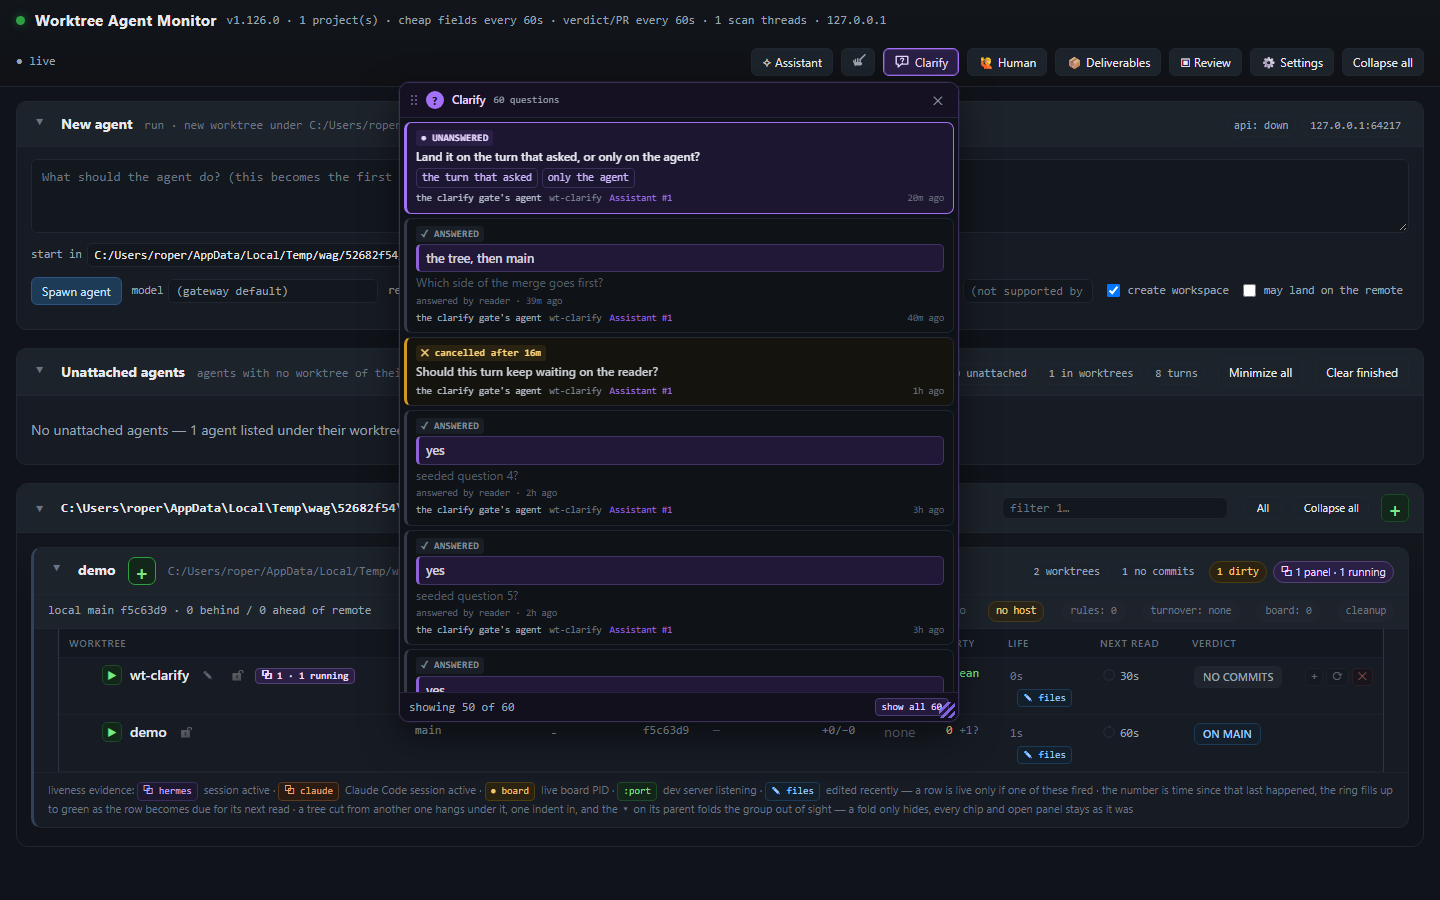
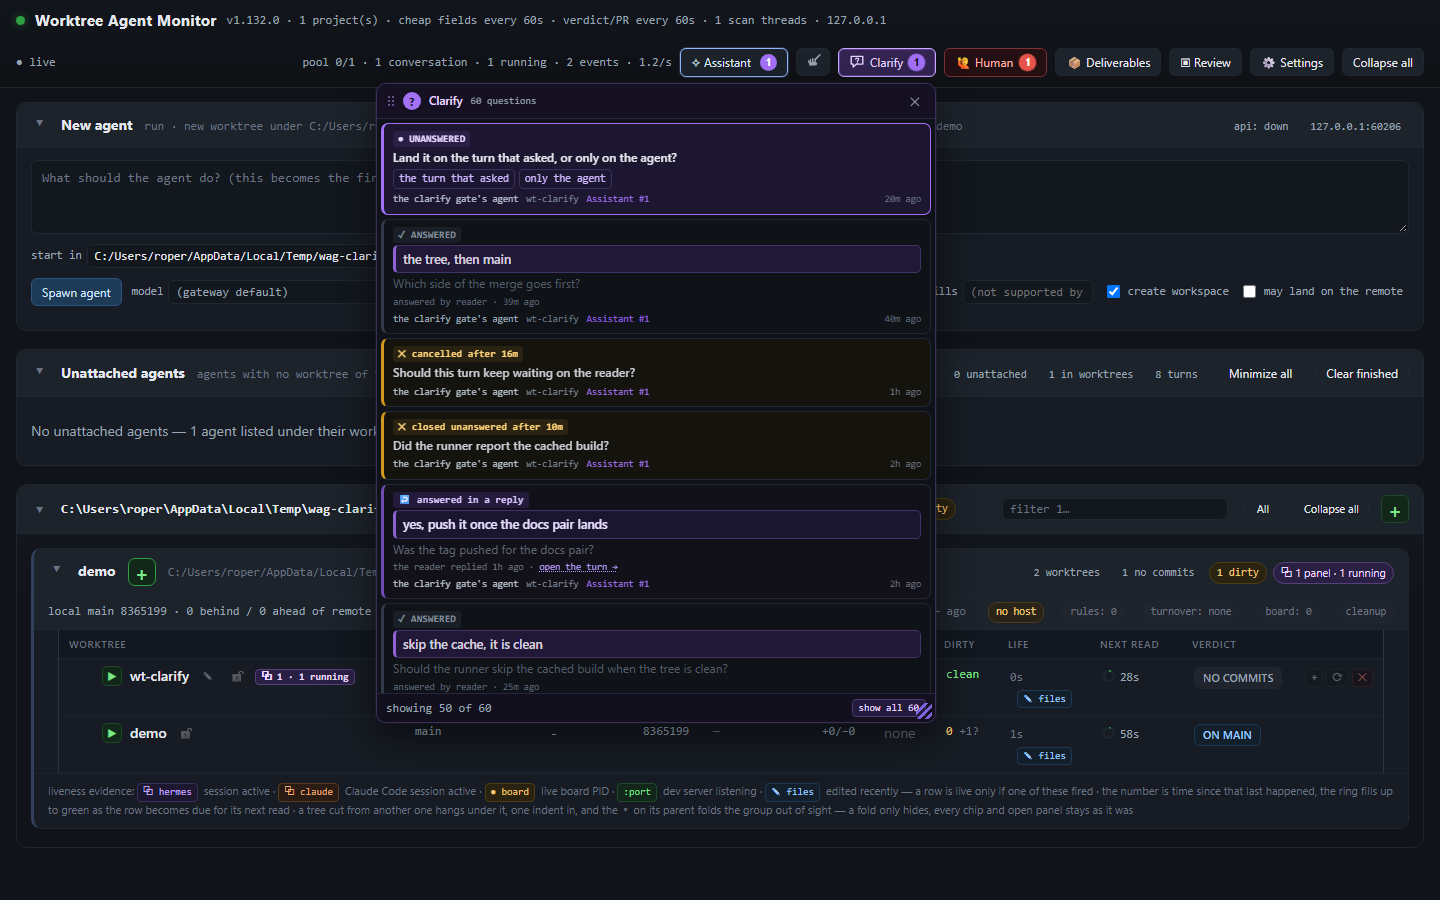
test(clarify): prove the collapse, the reply and the button count headless at 1440x900
The gate grows the row's own cases in the fixture: one question asked, closed
and asked again (which must be ONE answered row with both attempts behind a
fold), a question the reader answered in the reply box after its card closed
unanswered (a real reply turn on the job store, which must read "answered in a
reply" and land on that turn), and a question nobody answered (which must still
read "closed unanswered"). The same 61 asks answer as 60 items with one
outstanding, so the footer's honest cap and the header count keep their
numbers.

The header count is read from the page before the popup is opened (badge on,
reads 1 item, violet wash), and section 9 boots the panel again on a store with
nothing waiting: the badge hides, the wash goes, and the popup still holds every
question. The fold's open state moves into the model, because the list is
rebuilt on the 5s poll and would otherwise shut under the reader.

75/75 checks, no page errors, at 1440x900 and 768 wide. Screenshots refreshed
under docs/assets/clarify-history, including the fold, the replied row and the
zero-count header.

diff --git a/public/clarify-history.js b/public/clarify-history.js
@@ -46,6 +46,7 @@ const clarifyHist = {
   pendingAt: 0,      // when that number was last read
   pendingTick: null, // the slow count tick, independent of the popup being open
   pendingOnce: null, // the debounced read after a job frame
+  folds: new Set(),  // the seqs whose attempts the reader has opened, kept across the 5s repaint
 };
 
 // The popup's place and size: LAYOUT lengths are written as styles, but every number read back from the page
@@ -114,12 +115,17 @@ function clarifyHistoryPopEl() {
     // The fold inside a row comes first: pressing "2 attempts" must not also open the question's turn.
     const fold = t.closest?.(".ch-attempt-toggle");
     if (fold) {
+      const row = fold.closest?.(".ch-row");
+      const seq = Number(row?.dataset.seq) || 0;
       const listEl = fold.parentElement?.querySelector?.(".ch-attempt-list");
       if (listEl) {
         const opening = listEl.hidden;
         listEl.hidden = !opening;
         fold.setAttribute("aria-expanded", opening ? "true" : "false");
         fold.classList.toggle("is-open", opening);
+        // Recorded in the model so the next repaint draws it open rather than shutting it under the reader.
+        if (opening) clarifyHist.folds.add(seq);
+        else clarifyHist.folds.delete(seq);
       }
       return;
     }
@@ -163,11 +169,14 @@ function chAttemptsHtml(entry) {
   const lines = attempts
     .map((a, i) => `<span class="ch-attempt${i === 0 ? " is-newest" : ""}">${chEsc(C.attemptLine(a))}</span>`)
     .join("");
+  // The fold's own state lives in `clarifyHist.folds`, not in the DOM: the list is rebuilt on every poll (5s) and on
+  // every frame, and a DOM-only fold would snap shut under the reader's eyes while they were reading it.
+  const open = clarifyHist.folds.has(Number(entry.seq) || 0);
   const asked = attempts.length;
   return `
     <span class="ch-attempts">
-      <span class="ch-attempt-toggle mono" role="button" tabindex="-1" aria-expanded="false" title="show every time this question was asked">${asked} attempts <span class="ch-attempt-caret" aria-hidden="true">▸</span></span>
-      <span class="ch-attempt-list mono" hidden>${lines}</span>
+      <span class="ch-attempt-toggle mono${open ? " is-open" : ""}" role="button" tabindex="-1" aria-expanded="${open ? "true" : "false"}" title="show every time this question was asked">${asked} attempts <span class="ch-attempt-caret" aria-hidden="true">▸</span></span>
+      <span class="ch-attempt-list mono"${open ? "" : " hidden"}>${lines}</span>
     </span>`;
 }
 
